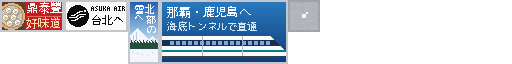
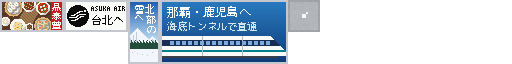
Redraw A3 Din Tai Fung after the reference layout
The first draft dropped most of the author's reference. Now the red band
with the vertical white logo sits on the right as in the reference, and
all seven dishes keep their places on the dark table around the bamboo
mat; the slogan is left out as asked. The logo is hand-drawn at 9x8 per
character because the outline font turns 豐 into a block. Records the
rule to follow reference images without recomposing them.

Claude-Session: https://claude.ai/code/session_011uVpnSHaBjHmyiEcNHRQ8C

Changed region(s): [[0.0, 0.0312, 0.125, 0.4688]]

diff --git a/addon/drafts/ads/ads_2x1.py b/addon/drafts/ads/ads_2x1.py
@@ -5,36 +5,66 @@ Slots A1-A5 in docs/ads.md. Each function returns the finished texture.
 from pixfont import canvas, ellipse, finish, put, rect, text
 
 # ---------- A3 Din Tai Fung ----------
-# Template: the author's reference banner (2026-11-02): dishes seen from
-# above on a dark wooden table, the slogan 品嚐鼎泰豐的好味道 in white, and a
-# red band with the logo in white. At 64 x 32 only the xiaolongbao steamer,
-# the red band and 好味道 fit.
-WOOD = (98, 62, 40)
-WOOD_DARK = (80, 49, 31)
-WOOD_LIGHT = (112, 73, 48)
-RED = (196, 30, 36)
+# Template: the author's reference banner (2026-11-02), kept as it is:
+# dishes seen from above on a dark wooden table (xiaolongbao, beef noodle
+# soup, wontons in chili oil, chicken soup, shrimp fried rice, a side dish,
+# shumai), and a red band on the right with the logo written vertically in
+# white. No slogan (the author asked to leave out 好味道).
+WOOD = (92, 58, 38)
+WOOD_DARK = (82, 51, 33)
+WOOD_LIGHT = (101, 65, 43)
+MAT = (158, 120, 78)
+MAT_DARK = (136, 100, 62)
+RED = (200, 28, 36)
 WHITE = (252, 250, 246)
-GOLD = (248, 222, 160)
-RIM = (220, 182, 124)
+CHINA = (247, 246, 243)
+CHINA_SHADE = (206, 204, 200)
+RIM = (222, 184, 126)
 RIM_DARK = (178, 136, 84)
 LINER = (200, 202, 204)
-LINER_DOT = (184, 187, 191)
-SHADOW = (160, 160, 160)
-DOUGH = (253, 250, 243)
-DOUGH_EDGE = (226, 216, 196)
-OUTLINE = (182, 168, 142)
-PLEAT = (196, 180, 152)
+LINER_DOT = (186, 189, 193)
+
+# The logo, hand-drawn 9 x 8 with a 1-pixel gap between the characters: at
+# this size the outline font turns 豐 into a solid block.
+LOGO = {
+    "鼎": ["..#####..",
+           "..#...#..",
+           "..#####..",
+           "..#...#..",
+           ".#######.",
+           "##.#.#.##",
+           ".#.#.#.#.",
+           "#..#.#..#"],
+    "泰": ["....#....",
+           ".#######.",
+           "..#####..",
+           "#########",
+           "..#.#.#..",
+           ".#.###.#.",
+           "#.#.#.#.#",
+           "...##...."],
+    "豐": ["..#...#..",
+           "#########",
+           "#.#.#.#.#",
+           "#########",
+           ".#######.",
+           ".#.....#.",
+           ".#######.",
+           "#########"],
+}
 
 
 def wood(img, x0, y0, x1, y1):
-    """Dark table boards with a faint diagonal grain."""
+    """Dark table boards with a soft diagonal grain, and a bamboo place mat
+    running diagonally through the middle, as in the reference."""
     for y in range(y0, y1):
         for x in range(x0, x1):
-            c = WOOD
-            if (x + 2 * y) % 11 == 0:
-                c = WOOD_DARK
-            elif (x + 2 * y) % 11 == 5 and (x * 7 + y) % 3:
-                c = WOOD_LIGHT
+            m = x + 0.55 * (y - 14)
+            if 21 <= m <= 37:                       # the mat
+                c = MAT_DARK if (2 * x + y) % 3 == 0 else MAT
+            else:
+                band = (x + 2 * y) // 3 % 5
+                c = (WOOD_DARK, WOOD, WOOD, WOOD_LIGHT, WOOD)[band]
             put(img, x, y, c)
 
 
@@ -44,48 +74,118 @@ def disc(cx, cy, r):
             if (x - cx) ** 2 + (y - cy) ** 2 <= r * r]
 
 
-def xiaolongbao(img, cx, cy):
-    """One dumpling from above: a cream round with an outline, a shadow on
-    the paper below it, and pleats swirling into the centre."""
-    body = set(disc(cx, cy, 3.4))
-    for x, y in body:
-        if (x + 1, y + 1) not in body:
-            put(img, x + 1, y + 1, SHADOW)
-    for x, y in body:
-        rim = any((x + dx, y + dy) not in body for dx, dy in ((1, 0), (-1, 0), (0, 1), (0, -1)))
-        if rim:
-            put(img, x, y, OUTLINE)
-        elif (x - cx) + (y - cy) > 1.5:
-            put(img, x, y, DOUGH_EDGE)
-        else:
-            put(img, x, y, DOUGH)
-    c = (round(cx), round(cy))
-    for dx, dy in ((0, 0), (-1, -1), (1, 0), (0, 1), (-1, 1)):
-        put(img, c[0] + dx, c[1] + dy, PLEAT if (dx, dy) != (0, 0) else OUTLINE)
+def bowl(img, cx, cy, r, fill):
+    """A white bowl or plate from above: a china rim, shaded at the lower
+    right, and fill(x, y, dx, dy) colouring the inside."""
+    for x, y in disc(cx, cy, r):
+        lower_right = (x - cx) + (y - cy) > r * 0.9
+        put(img, x, y, CHINA_SHADE if lower_right else CHINA)
+    for x, y in disc(cx, cy, r - 1.5):
+        c = fill(x, y, x - cx, y - cy)
+        if c:
+            put(img, x, y, c)
 
 
-def steamer_top(img, cx, cy, r):
-    """A round bamboo steamer from above, lined with perforated paper."""
+def steamer(img, cx, cy, r, item):
+    """A bamboo steamer from above, lined with paper, item(cx, cy) drawn on
+    a ring of places."""
     for x, y in disc(cx, cy, r):
         put(img, x, y, RIM)
-    for x, y in disc(cx, cy, r - 2):
+    for x, y in disc(cx, cy, r - 1.5):
         put(img, x, y, RIM_DARK)
-    for x, y in disc(cx, cy, r - 3):
+    for x, y in disc(cx, cy, r - 2.5):
         put(img, x, y, LINER_DOT if (x - y) % 4 == 0 else LINER)
-    for a, b in ((-3, -6), (4, -5), (-6, 1), (2, 1), (-2, 7), (6, 6)):
-        xiaolongbao(img, cx + a, cy + b)
+    for dx, dy in ((-3, -3), (3, -3), (-3, 3), (3, 3), (0, 0)) if r > 8 else ((-2.5, -2.5), (2.5, -2.5), (-2.5, 2.5), (2.5, 2.5)):
+        item(img, cx + dx, cy + dy)
+
+
+def piece(img, cx, cy, body_color, edge_color, top=None):
+    """A dumpling-sized round on steamer paper: 5 px across, a darker edge on
+    the lower right and a shadow beside it."""
+    body = set(disc(cx, cy, 2.5))
+    for x, y in body:
+        if (x + 1, y + 1) not in body:
+            put(img, x + 1, y + 1, (150, 150, 152))
+    for x, y in body:
+        outer = any((x + a, y + b) not in body for a, b in ((1, 0), (0, 1)))
+        put(img, x, y, edge_color if outer else body_color)
+    if top:
+        top(round(cx), round(cy))
+
+
+def xiaolongbao(img, cx, cy):
+    def knot(x, y):
+        put(img, x, y, (192, 176, 148))
+        put(img, x - 1, y - 1, (222, 210, 186))
+    piece(img, cx, cy, (253, 250, 243), (204, 192, 168), knot)
+
+
+def shumai(img, cx, cy):
+    def shrimp(x, y):
+        for a, b in ((0, 0), (-1, 0), (0, -1), (-1, -1)):
+            put(img, x + a, y + b, (236, 128, 92))
+    piece(img, cx, cy, (238, 222, 160), (200, 182, 120), shrimp)
+
+
+def beef_noodle(x, y, dx, dy):
+    if (dx, dy) in ((-2, 0), (-1, 0), (-2, 1), (2, -1), (3, -1), (2, 0), (0, 2), (1, 2)):
+        return (78, 38, 22)                          # beef
+    if (x * 3 + y) % 7 == 0:
+        return (226, 200, 140)                       # noodles
+    if (x + y * 5) % 11 == 0:
+        return (96, 156, 62)                         # spring onion
+    return (132, 54, 28)                             # broth
+
+
+def wontons(x, y, dx, dy):
+    for wx, wy in ((-2, -1), (1, -2), (2, 1), (-1, 2)):
+        if abs(dx - wx) + abs(dy - wy) <= 1:
+            return (242, 232, 214)
+    if (x + y) % 6 == 0:
+        return (96, 156, 62)
+    return (178, 42, 22) if (x * 5 + y) % 4 else (214, 92, 40)
+
+
+def chicken_soup(x, y, dx, dy):
+    if abs(dx) + abs(dy) <= 1:
+        return (246, 240, 230)
+    return (232, 218, 182)
+
+
+def fried_rice(x, y, dx, dy):
+    if dx * dx + dy * dy > 24:
+        return None                                  # plate shows round the rice
+    if (x * 7 + y * 3) % 9 == 0:
+        return (238, 140, 112)                       # shrimp
+    if (x + y * 2) % 5 == 0:
+        return (250, 206, 76)                        # egg
+    if (x * 3 + y) % 13 == 0:
+        return (110, 160, 70)
+    return (238, 224, 176)
+
+
+def side_dish(x, y, dx, dy):
+    return (84, 56, 30) if (x + y) % 2 else (150, 106, 58)
 
 
 def din_tai_fung():
     img = canvas(2, 1, WOOD)
-    wood(img, 0, 0, 25, 32)
-    steamer_top(img, 11, 16, 13.5)
-    rect(img, 25, 0, 64, 32, RED)
-    text(img, 26, 3, "鼎泰豐", WHITE, 12)
-    rect(img, 27, 16, 61, 17, (226, 104, 96))
-    text(img, 26, 18, "好味道", GOLD, 12)
+    wood(img, 0, 0, 51, 32)
+    steamer(img, 13, 7, 9, xiaolongbao)              # top row
+    bowl(img, 28.5, 4.5, 7, beef_noodle)
+    bowl(img, 42.5, 7.5, 7, wontons)
+    bowl(img, 5, 21, 4.6, chicken_soup)              # bottom row
+    bowl(img, 17.5, 26, 8, fried_rice)
+    bowl(img, 29, 26.5, 4, side_dish)
+    steamer(img, 42.5, 25.5, 8.8, shumai)
+    rect(img, 51, 0, 64, 32, RED)
+    for i, ch in enumerate("鼎泰豐"):
+        for dy, row in enumerate(LOGO[ch]):
+            for dx, c in enumerate(row):
+                if c == "#":
+                    put(img, 52 + dx, 3 + 9 * i + dy, WHITE)
     return finish(img)
 
 
 ADS = {"A3": din_tai_fung}
-TITLES = {"A3": "鼎泰豐"}
+TITLES = {"A3": "鼎泰豐（照作者給的橫幅）"}

diff --git a/docs/ads.md b/docs/ads.md
@@ -18,6 +18,7 @@
 - **代言人**（已定，2026-11-01）：畫不出細節沒關係，有那個意象就好：簡化的人像，加上名字與商品
 - **沒有填的編號**：維持原版的畫，放畫時可能會挑到原版的圖
 - **畫的流程**（2026-11-02）：一張一張畫給作者看再調整；標語與畫面由 Claude 先擬，作者再改。需要作者提供資料的（地鐵路線圖、F1 賽道圖、Asuka Inc. 的地產開發）先跳過
+- **照參考圖畫**（2026-11-02）：作者給參考圖時，版面、標誌的位置與方向、畫面裡的元素都照參考圖，不自行刪改或重新構圖；真的放不下的元素先問作者
 
 ---
 
@@ -40,7 +41,7 @@
 | --- | --- | --- | --- | --- |
 | A1 | Pool | `kz.png` (0, 32) | 麥當勞 | 待決定 |
 | A2 | Courbet | `kz.png` (32, 32) | 電信：本國的電信公司，仿 Spark 的風格 | 公司名稱待取，先模糊帶過 |
-| A3 | Sea | `kz.png` (64, 32) | 鼎泰豐 | 像新加坡一樣，到處都有鼎泰豐。模板：作者給的鼎泰豐橫幅（深色木桌、俯視的菜、紅底白字的標誌、標語「品嚐鼎泰豐的好味道」）。草稿：俯視的小籠包蒸籠，紅底白字「鼎泰豐」，標語縮成「好味道」 |
+| A3 | Sea | `kz.png` (64, 32) | 鼎泰豐 | 像新加坡一樣，到處都有鼎泰豐。照作者給的鼎泰豐橫幅畫，版面不改：深色木桌上俯視的菜（小籠包、牛肉麵、紅油抄手、雞湯、蝦仁炒飯、小菜、燒賣），右邊紅色直條裡直書的白色標誌。不放標語（作者 2026-11-02） |
 | A4 | Sunset | `kz.png` (96, 32) | 咖啡（萬用） | |
 | A5 | Creebet | `kz.png` (128, 32) | 補習班（萬用） | |
 
